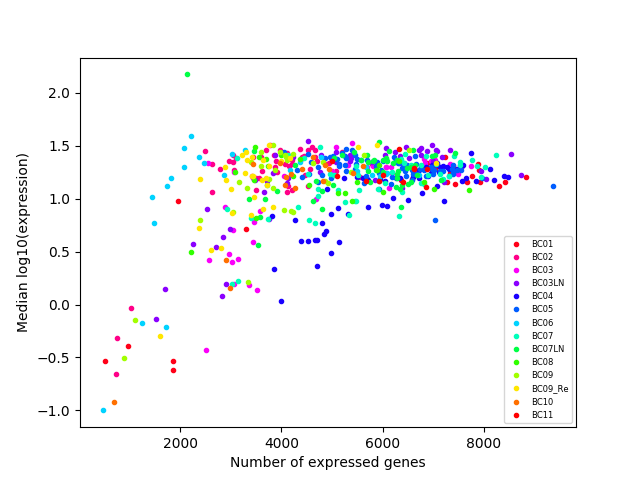
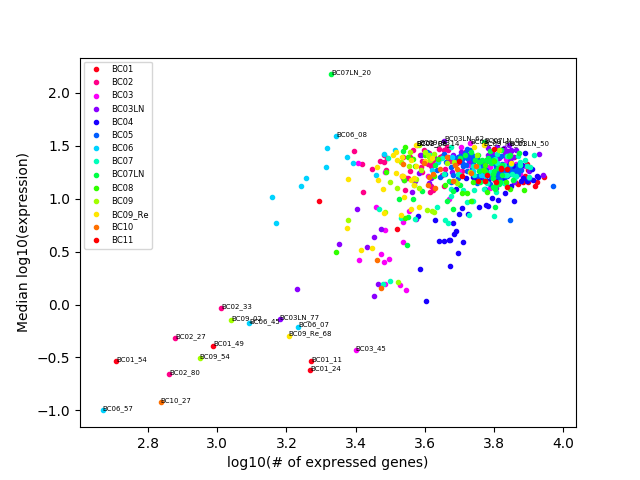
RA: Annotate outliers

diff --git a/p/single-cell/20171130-BCXX/2_stats_b_nnz-median.py b/p/single-cell/20171130-BCXX/2_stats_b_nnz-median.py
@@ -54,35 +54,50 @@ print("Groups:", ', '.join(groups))
 
 GROUP = dict()
 for g in groups :
-	# Find samples of the form "g"_XX
-	S = [s for (s, h) in enumerate(header) if re.match(g + "_[0-9]+", h)]
+	# Find samples of the form [g]_XX
+	S = [(s, h) for (s, h) in enumerate(header) if re.match(g + "_[0-9]+", h)]
 
 	# Extract the those samples from the data matrix
-	GROUP[g] = np.take(X, S, axis = axis_smpl)
+	GROUP[g] = {
+		'data' : np.take(X, [s for (s, h) in S], axis = axis_smpl),
+		'head' : [h for (s, h) in S],
+		'clas' : [g] * len(S)
+	}
 
 #
 
 print("Computing...")
 
-ZM = dict()
-for (g, Y) in Progress()(GROUP.items()) :
-	ZM[g] = { 'nnz' : [], 'med' : [] }
+ZMH = dict()
+for (g, DH) in Progress()(GROUP.items()) :
+	Y = DH['data']
+	
+	ZMH[g] = { 'nnz' : [], 'med' : [], 'hed' : DH['head'] }
 	for s in range(Y.shape[axis_smpl]) :
-		x = np.take(Y, s, axis = axis_smpl)
+		x = np.take(Y, s, axis=axis_smpl)
 		
-		ZM[g]['nnz'].append(np.count_nonzero(x))
-		ZM[g]['med'].append(np.median(np.log10(x[x != 0])))
+		ZMH[g]['nnz'].append(np.log10(np.count_nonzero(x)))
+		ZMH[g]['med'].append(np.median(np.log10(x[x != 0])))
 
 print("Plotting...")
 
-colors = plt.get_cmap('hsv')(np.linspace(0, 1.0, len(ZM))).tolist()
+# Each group has its own color
+colors = plt.get_cmap('hsv')(np.linspace(0, 1.0, len(ZMH))).tolist()
+#
+for g in sorted(ZMH.keys()) :
+	zmh = ZMH[g]
+	
+	(x, y) = (zmh['nnz'], zmh['med'])
+	plt.plot(x, y, '.', color=colors.pop())
+	
+	# Annotate outliers
+	zmh = zip(zmh['nnz'], zmh['med'], zmh['hed'])
+	zmh = [(x, y, h) for (x, y, h) in zmh if (y < 0) or (y > 1.5)]
+	for (x, y, h) in zmh : plt.text(x, y, h, fontsize=5)
 
-for g in Progress()(sorted(ZM.keys())) :
-	plt.plot(ZM[g]['nnz'], ZM[g]['med'], '.', color=colors.pop())
-
-plt.xlabel("Number of expressed genes")
+plt.xlabel("log10(# of expressed genes)")
 plt.ylabel("Median log10(expression)")
-plt.legend(sorted(ZM.keys()), loc='lower right', prop={'size': 6})
+plt.legend(sorted(ZMH.keys()), loc='upper left', prop={'size': 6})
 
 print("Saving figure...")
 
